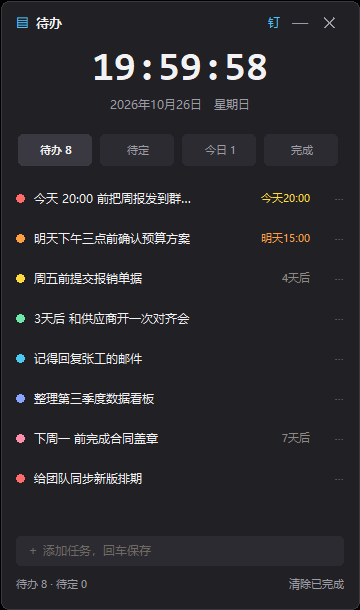
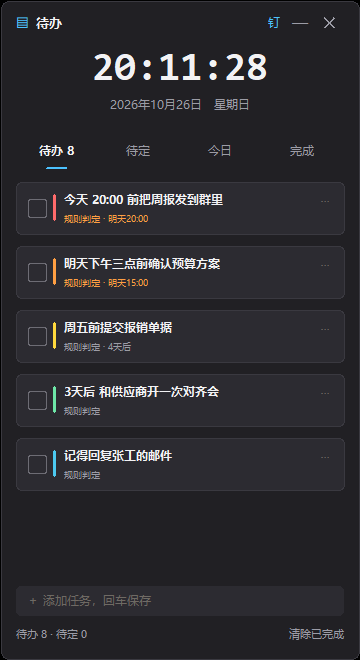
style(dashboard): card rows with checkbox and color bar, underline tabs, refresh README screenshot

diff --git a/src/chat2todo/dashboard.py b/src/chat2todo/dashboard.py
@@ -46,9 +46,9 @@ ACCENTS = ["#ff6b6b", "#ff9f43", "#ffd93d", "#6ee7a8",
 W, H = 360, 540        # 展开态
 W_MINI, H_MINI = 200, 108
 PAD = 16
-TOP = 186              # 列表起始 y
+TOP = 196              # 列表起始 y
 FOOT = 104              # 底部预留（输入框 + 页脚）
-ROW = 40               # 单行高度
+ROW = 64               # 单行高度（卡片式）
 TABS: List[Tuple[str, str]] = [("todo", "待办"), ("maybe", "待定"),
                                ("today", "今日"), ("done", "完成")]
 
@@ -447,15 +447,17 @@ def _build(db_path: str, interval: int = 30, status: str = "pending",
         for idx, (key, label) in enumerate(TABS):
             x1 = PAD + idx * seg
             active = key == state["tab"]
-            _rounded(cv, x1 + 2, 134, x1 + seg - 6, 166, 12,
-                     fill=(ACTIVE if active else FIELD), outline="",
-                     tags=("body", f"tab{idx}"))
             n = counts.get(key)
             text = f"{label} {n}" if n else label
             cv.create_text(x1 + seg / 2 - 1, 150, text=text,
                            fill=TEXT if active else SUB,
-                           font=("Microsoft YaHei UI", 8, "bold" if active else "normal"),
+                           font=("Microsoft YaHei UI", 9, "bold" if active else "normal"),
                            tags=("body", f"tab{idx}"))
+            if active:
+                # 选中态：下方短横线（分段控件风格）
+                cx = x1 + seg / 2 - 1
+                cv.create_line(cx - 10, 168, cx + 10, 168, fill=ACCENT, width=2,
+                               capstyle="round", tags=("body", f"tab{idx}"))
             cv.tag_bind(f"tab{idx}", "<Button-1>", lambda _e, k=key: switch_tab(k))
 
         rows_room = max(1, (h - TOP - FOOT) // ROW)
@@ -486,46 +488,67 @@ def _build(db_path: str, interval: int = 30, status: str = "pending",
                 tag = f"item{idx}"
                 i = state["offset"] + idx
                 if item.status == "done":
-                    dot_fill = "#6f6a64"
+                    bar = "#6f6a64"
                 elif item.status == "unconfirmed":
-                    dot_fill = SUB
+                    bar = "#ffd93d"
                 else:
-                    dot_fill = ACCENTS[i % len(ACCENTS)]
-                # 圆点与 ⋯ 各自独立成标签，避免点圆点时把详情窗一起打开
-                cv.create_oval(PAD, y - 4, PAD + 8, y + 4, fill=dot_fill,
-                               outline="", tags=("body", f"dot{idx}"))
+                    bar = ACCENTS[i % len(ACCENTS)]
+                # 卡片：圆角底 + 1px 描边，勾选框 / 色条 / 标题 / 说明 / ⋯
+                _rounded(cv, PAD, y - 26, W - PAD, y + 26, 14,
+                         fill=FIELD, outline=BORDER, width=1, tags="body")
+                # 勾选框（点击切换完成）
+                if item.status == "done":
+                    _rounded(cv, PAD + 12, y - 9, PAD + 30, y + 9, 5,
+                             fill=ACCENT, outline="", tags=("body", f"dot{idx}"))
+                    cv.create_text(PAD + 21, y, text="✓", fill="#0b1a22",
+                                   font=("Microsoft YaHei UI", 9, "bold"),
+                                   tags=("body", f"dot{idx}"))
+                else:
+                    _rounded(cv, PAD + 12, y - 9, PAD + 30, y + 9, 5,
+                             fill="", outline="#6d6c74", width=1,
+                             tags=("body", f"dot{idx}"))
+                # 左侧竖色条
+                cv.create_line(PAD + 38, y - 13, PAD + 38, y + 11, fill=bar,
+                               width=3, capstyle="round", tags="body")
                 due = due_parse(item.text)
                 chip = due_label(due)
-                # 有到期标签时右侧要留位置，没有则多显示几个字
-                limit = 16 if chip else 24
+                limit = 20
                 body = item.text if len(item.text) <= limit else item.text[:limit] + "…"
-                if item.status == "unconfirmed":
-                    body = "? " + body        # 待定：点一下确认
-                elif item.status == "done":
-                    body = "✓ " + body
-                cv.create_text(PAD + 18, y, text=body, anchor="w",
+                cv.create_text(PAD + 48, y - 9, text=body, anchor="w",
                                fill=(SUB if item.status != "pending" else TEXT),
-                               font=("Microsoft YaHei UI", 9), tags=("body", tag))
+                               font=("Microsoft YaHei UI", 9, "bold"), tags=("body", tag))
+                # 第二行：状态 / 到期说明
+                meta_bits = []
+                if item.status == "unconfirmed":
+                    meta_bits.append("待确认")
+                elif item.status == "done":
+                    meta_bits.append("已完成")
+                else:
+                    meta_bits.append("规则判定")
                 if chip:
-                    # 过期红 / 今天黄 / 24 小时内橙 / 其余灰——不把「明天」误标成红
-                    now_ts = time.time()
-                    if due and due < now_ts:
-                        color = "#ff6b6b"
-                    elif chip.startswith("今天"):
-                        color = "#ffd93d"
-                    elif due and due - now_ts <= 86400:
-                        color = "#ff9f43"
-                    else:
-                        color = "#8f8a84"
-                    cv.create_text(W - PAD - 34, y, text=chip, anchor="e", fill=color,
-                                   font=("Microsoft YaHei UI", 8), tags=("body", tag))
-                cv.create_text(W - PAD, y, text="⋯", anchor="e", fill="#6f6a64",
+                    meta_bits.append(chip)
+                now_ts = time.time()
+                if due and due < now_ts:
+                    meta_color = "#ffd93d"
+                elif chip.startswith("今天"):
+                    meta_color = "#ffd93d"
+                elif due and due - now_ts <= 86400:
+                    meta_color = "#ff9f43"
+                else:
+                    meta_color = SUB
+                cv.create_text(PAD + 48, y + 10, text=" · ".join(meta_bits), anchor="w",
+                               fill=meta_color, font=("Microsoft YaHei UI", 7),
+                               tags=("body", tag))
+                cv.create_text(W - PAD - 14, y - 8, text="⋯", anchor="e", fill="#6f6a64",
                                font=("Microsoft YaHei UI", 9), tags=("body", f"more{idx}"))
+
                 cv.tag_bind(tag, "<Button-1>", lambda _e, it=item: show_detail(it))
                 cv.tag_bind(f"dot{idx}", "<Button-1>",
                             lambda _e, it=item: toggle_item(it))
                 cv.tag_bind(f"more{idx}", "<Button-1>",
                             lambda e, it=item: popup(e, it))
+
+
                 for t in (tag, f"dot{idx}", f"more{idx}"):
                     cv.tag_bind(t, "<Button-3>", lambda e, it=item: popup(e, it))
                 y += ROW
